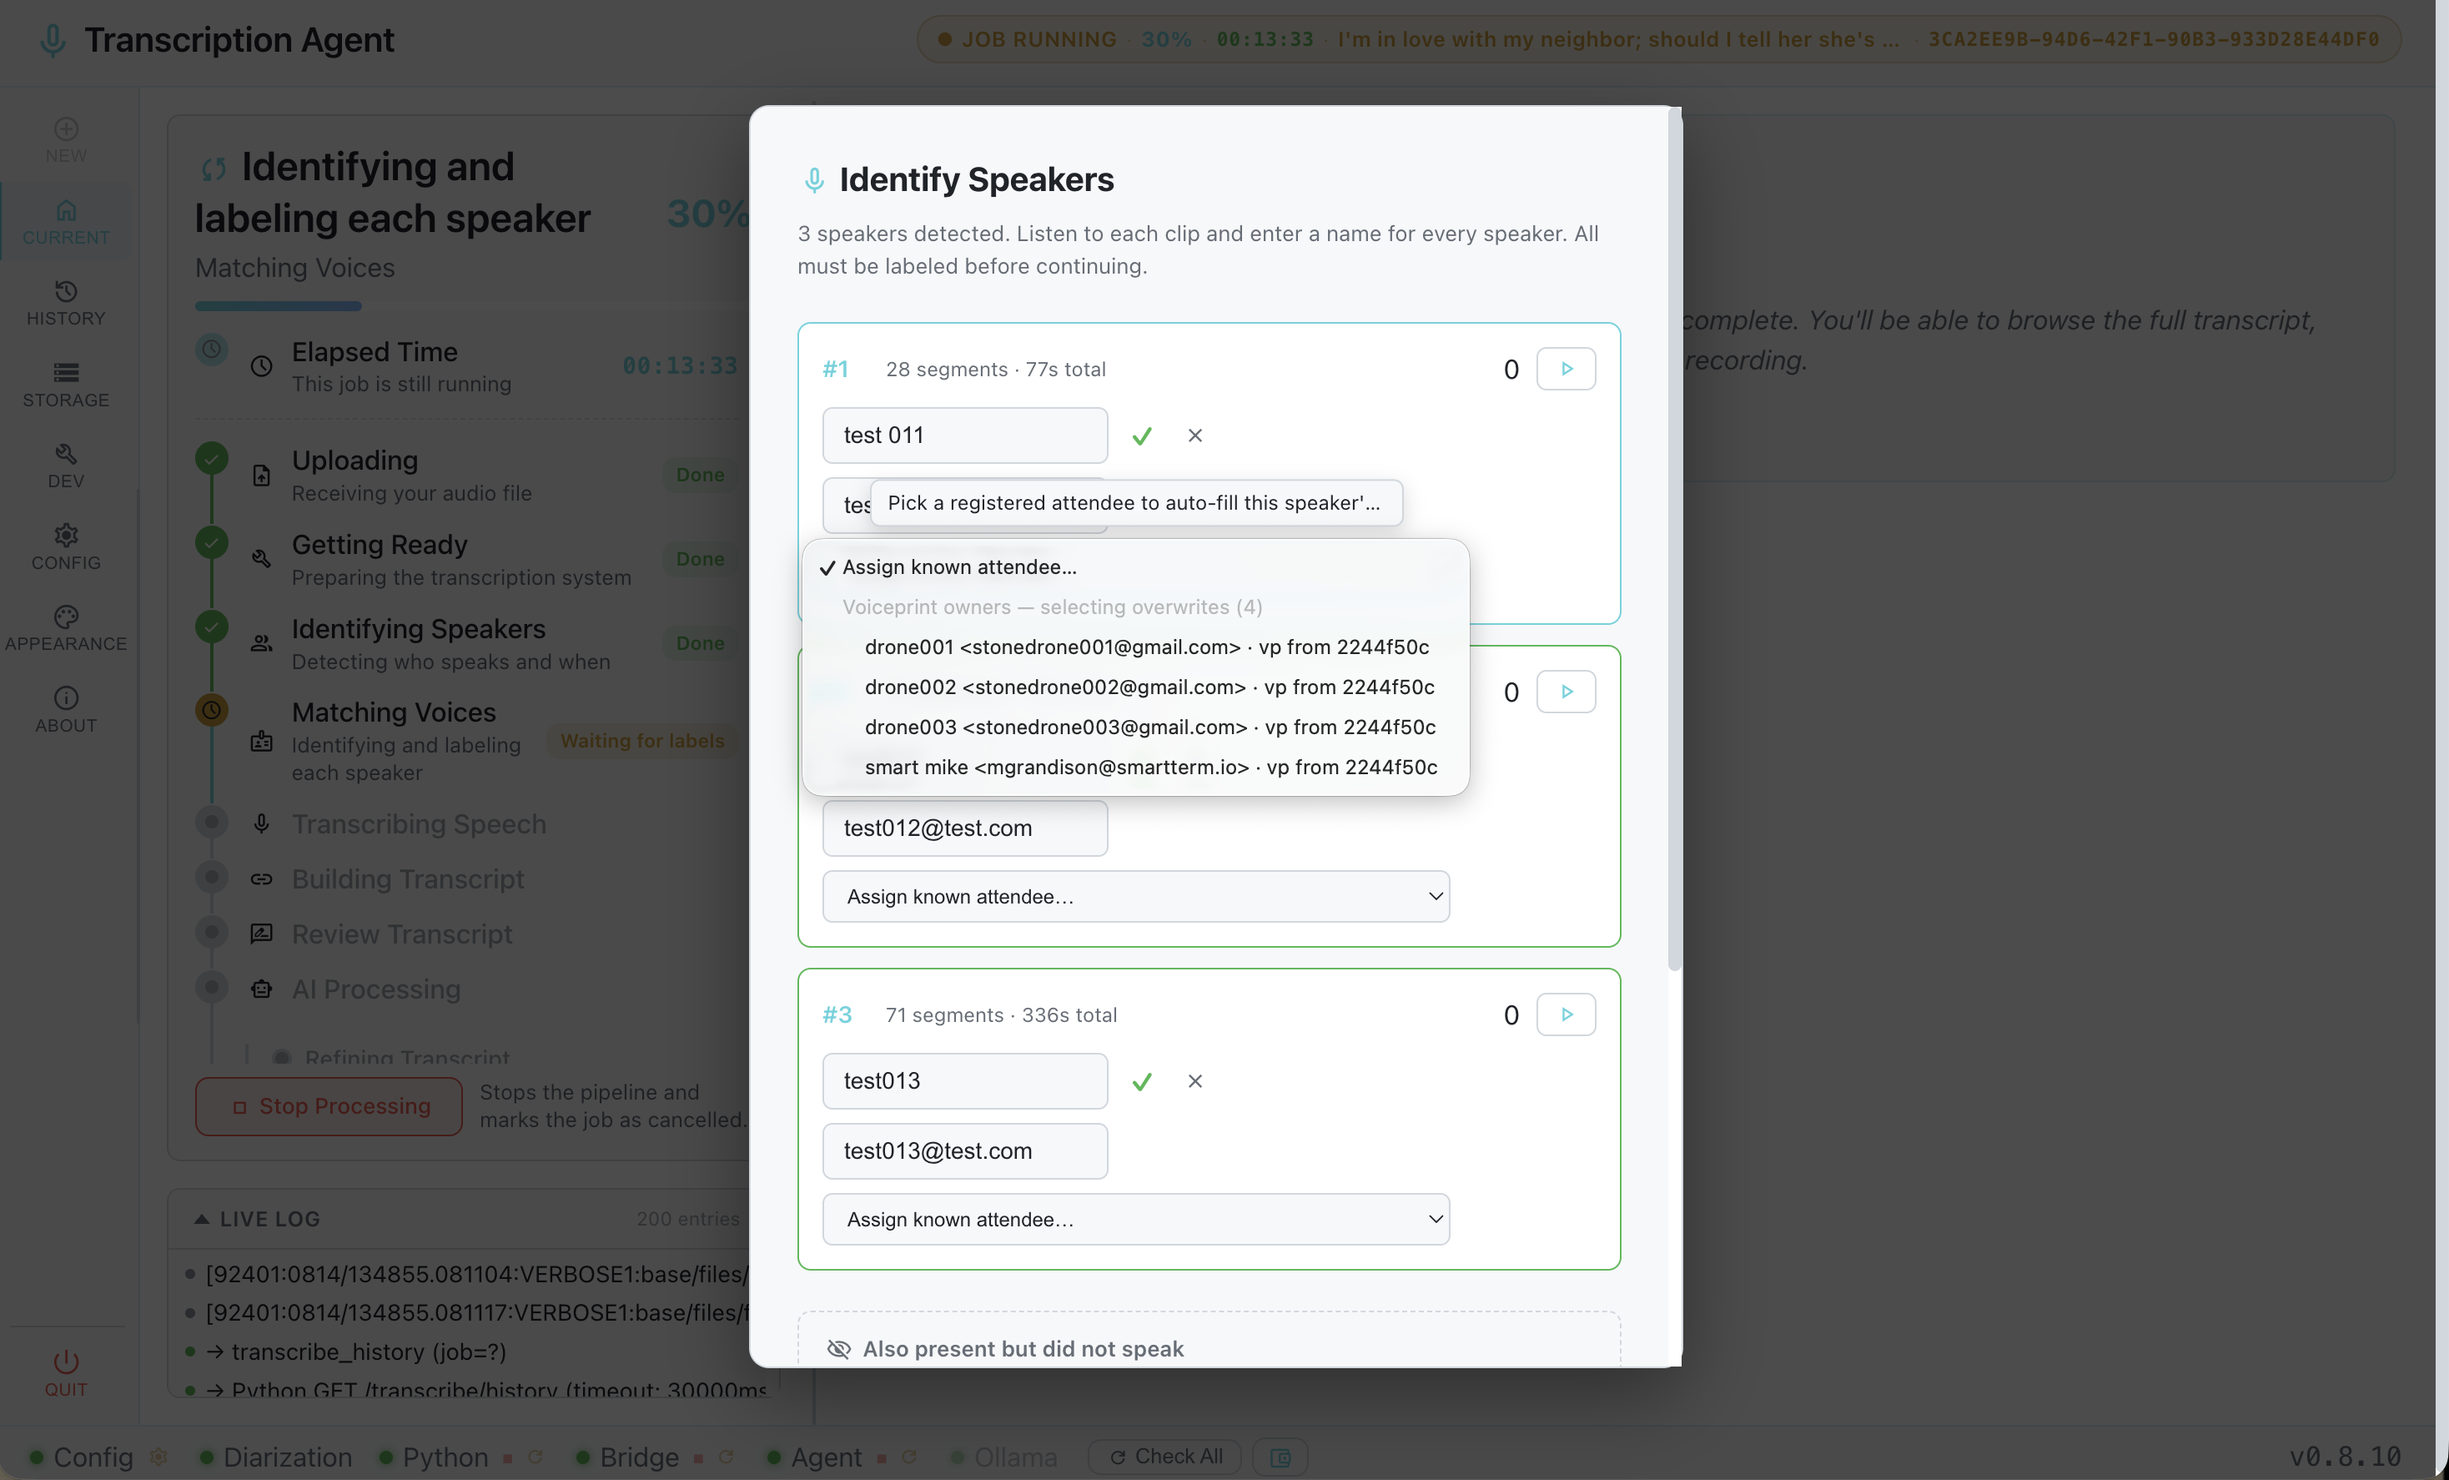
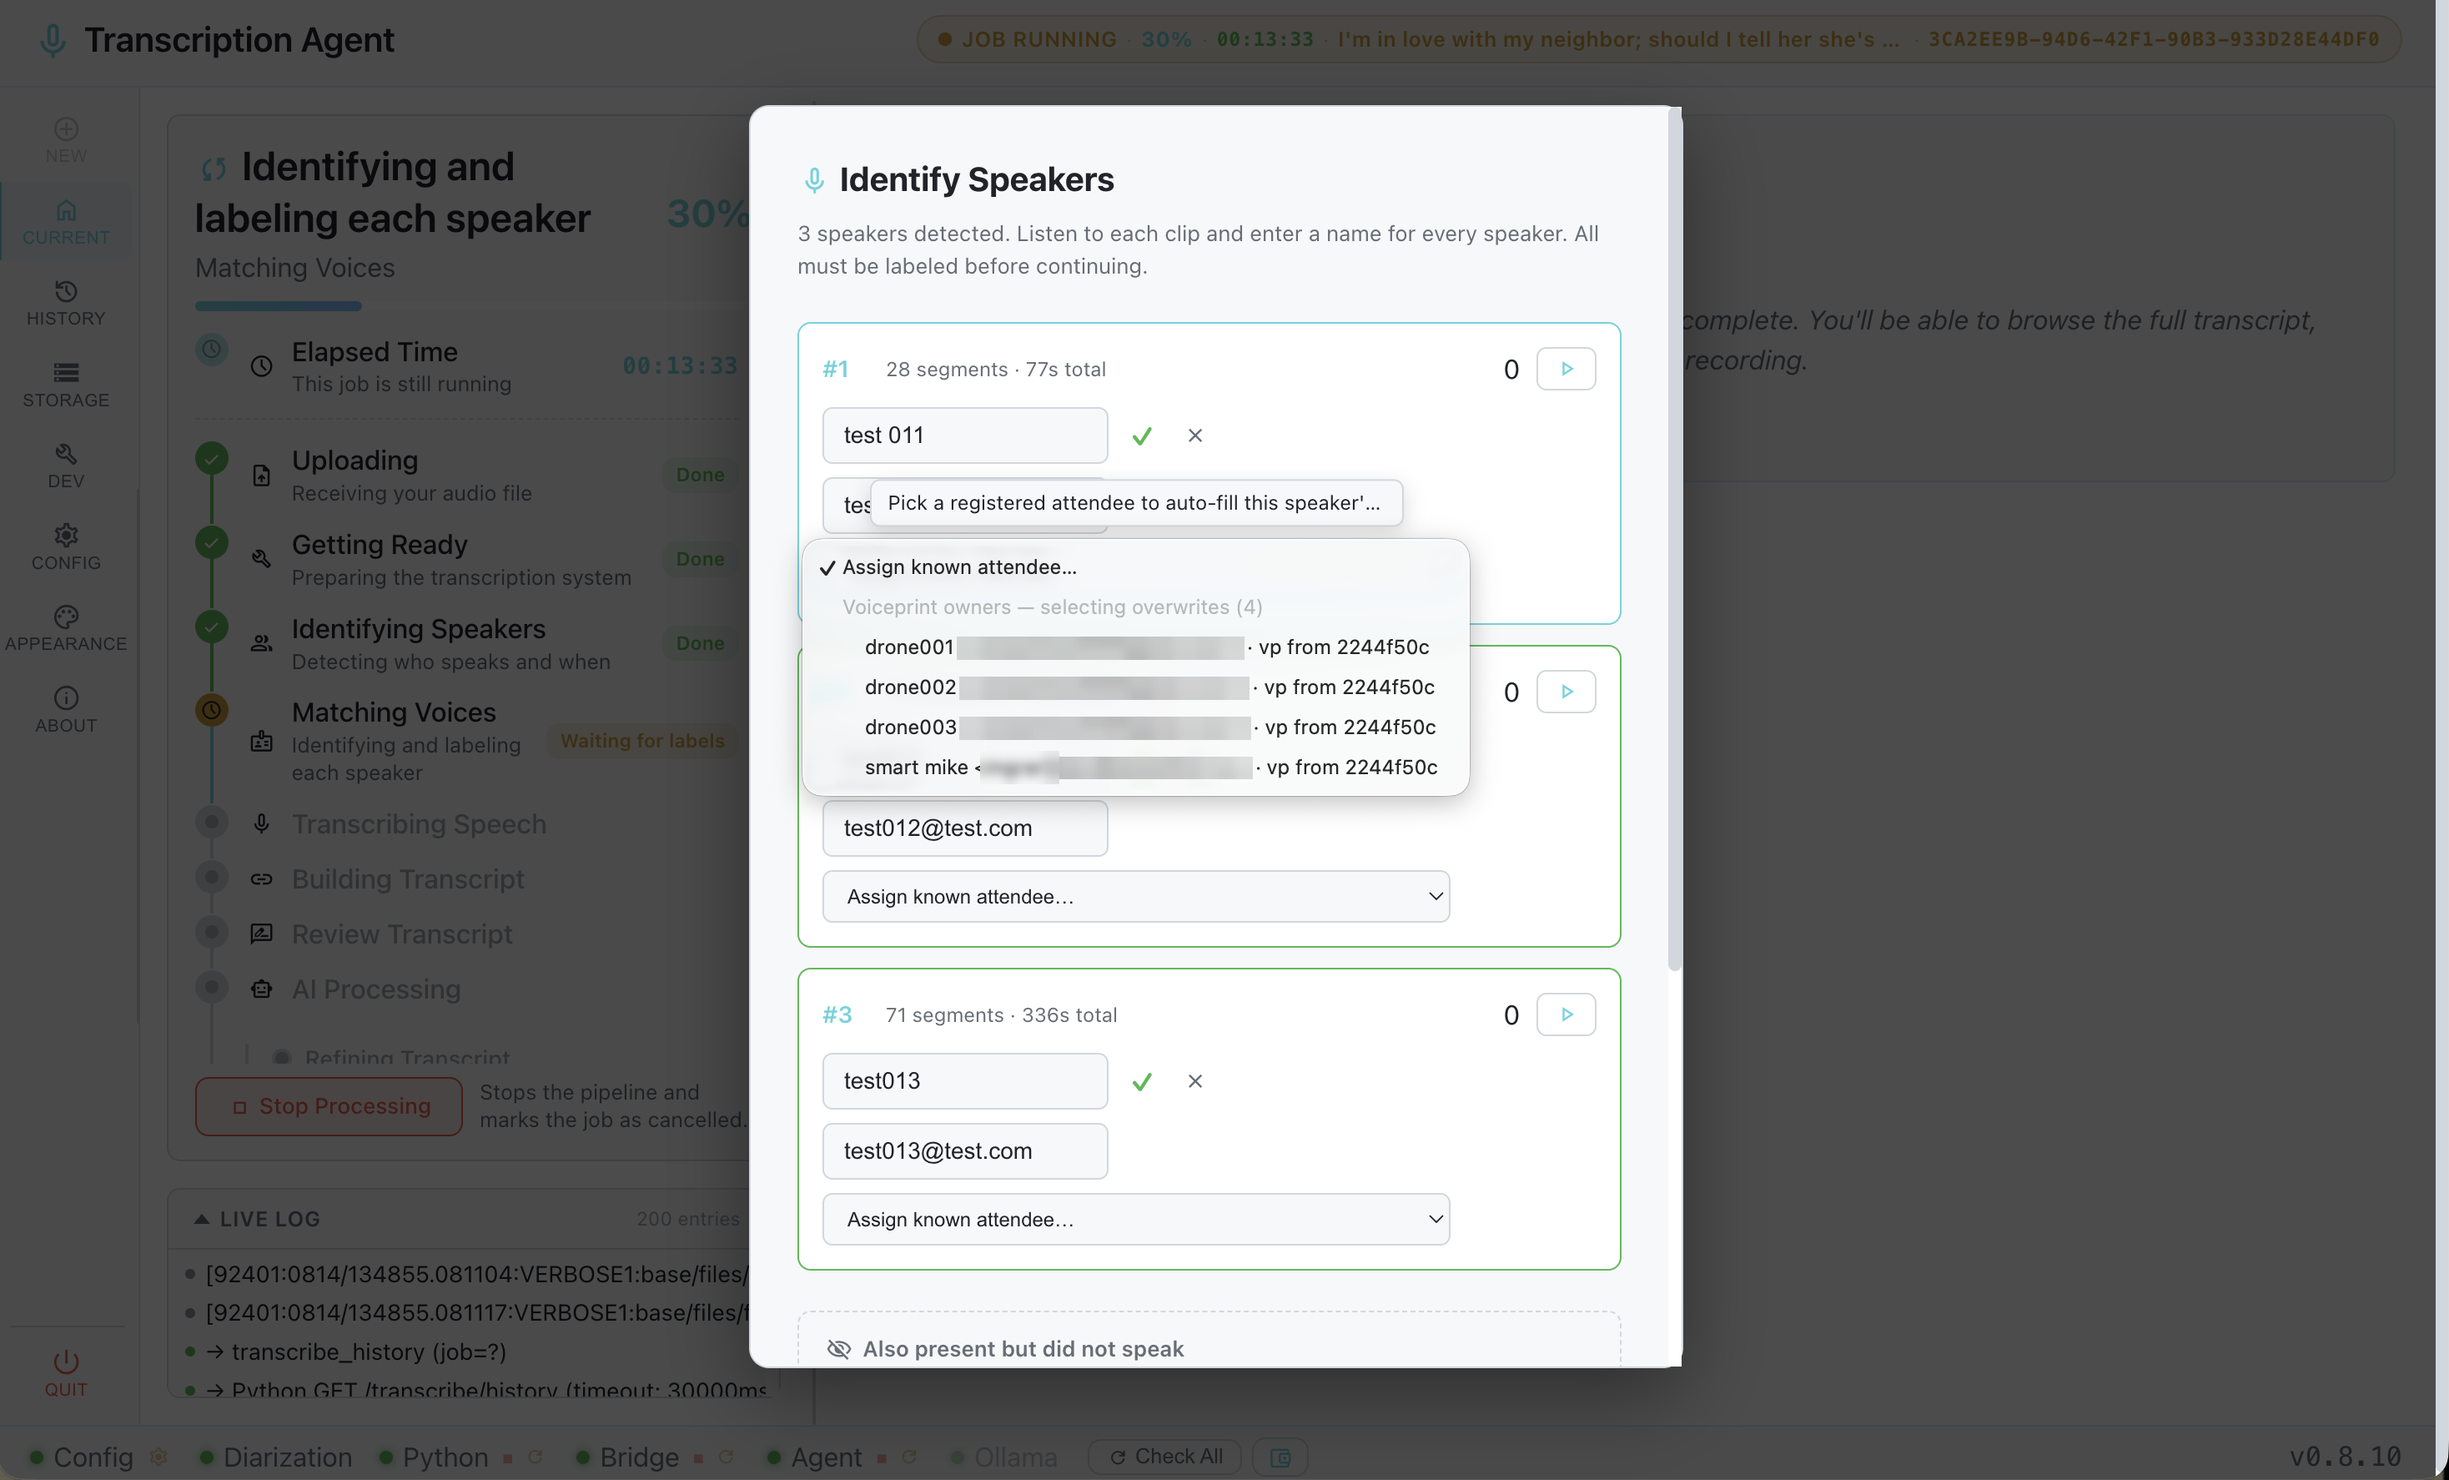
chore: pre-public cleanup — redact real emails from guide screenshots, drop maintainer AWS helper
Prep for making the remote public. No runtime or build behaviour changes.

- Blur the real email addresses that were legible in 10 user-guide screenshots.
  Word-level tesseract boxes located each address and Pillow applied a mosaic to
  that box only, so attendee names, labels, buttons and timestamps in the same
  rows are untouched. Files: config_llm_services_002, new_job_filled_001,
  new_job_upload_001, new_job_upload_002, history_results_attendees_001,
  delivery_review_002, dev_database_002, speaker_labelling_modal_001,
  speaker_labelling_modal_004, speak_labelling_modal_002.
  Placeholder test0NN@test.com addresses were deliberately left readable.
  Each of the 10 files was re-inspected afterwards to confirm that no address and
  no partial fragment survives next to a patch.
- test_attendee_warning_logic.py: replace a real personal address used as test
  data with an example.com placeholder, matching the convention already applied
  in scripts/test-bot.mjs.
- Remove scripts/update-rdp-sg.sh (maintainer-only EC2/RDP security-group helper).
  docs/safe/windows_aws_testing.md now notes it must be recovered from git history.
- .gitignore: ignore electron/builder-mac-arm64.json — a transient config created
  for local macOS arm64 release builds and removed afterwards, so it must not be
  committed by a blanket `git add`.
- docs/safe/CHANGELOG.md + docs/CHANGELOG.md: 0.9.9-2 entries.

Note: the screenshot redaction is image-level only. Re-running the screenshot
[…]

Changed region(s): [[0.3719, 0.403, 0.5269, 0.5271]]

diff --git a/python-backend/tests/test_attendee_warning_logic.py b/python-backend/tests/test_attendee_warning_logic.py
@@ -60,12 +60,12 @@ def test_build_attendee_presence_warning_flags_registered_but_voiceprint_unmatch
 
 def test_build_voiceprint_reuse_warnings_flags_cross_job_reuse():
     warnings = _build_voiceprint_reuse_warnings(
-        entries=[{"name": "Sags", "email": "african.genetic.survival@gmail.com"}],
+        entries=[{"name": "Sags", "email": "sags@example.com"}],
         current_job_id="job-003",
         voiceprints=[
             {
                 "name": "Sags",
-                "email": "african.genetic.survival@gmail.com",
+                "email": "sags@example.com",
                 "sample_job_id": "job-002",
             }
         ],
@@ -78,12 +78,12 @@ def test_build_voiceprint_reuse_warnings_flags_cross_job_reuse():
 
 def test_build_voiceprint_reuse_warnings_ignores_same_job_reuse():
     warnings = _build_voiceprint_reuse_warnings(
-        entries=[{"name": "Sags", "email": "african.genetic.survival@gmail.com"}],
+        entries=[{"name": "Sags", "email": "sags@example.com"}],
         current_job_id="job-003",
         voiceprints=[
             {
                 "name": "Sags",
-                "email": "african.genetic.survival@gmail.com",
+                "email": "sags@example.com",
                 "sample_job_id": "job-003",
             }
         ],
